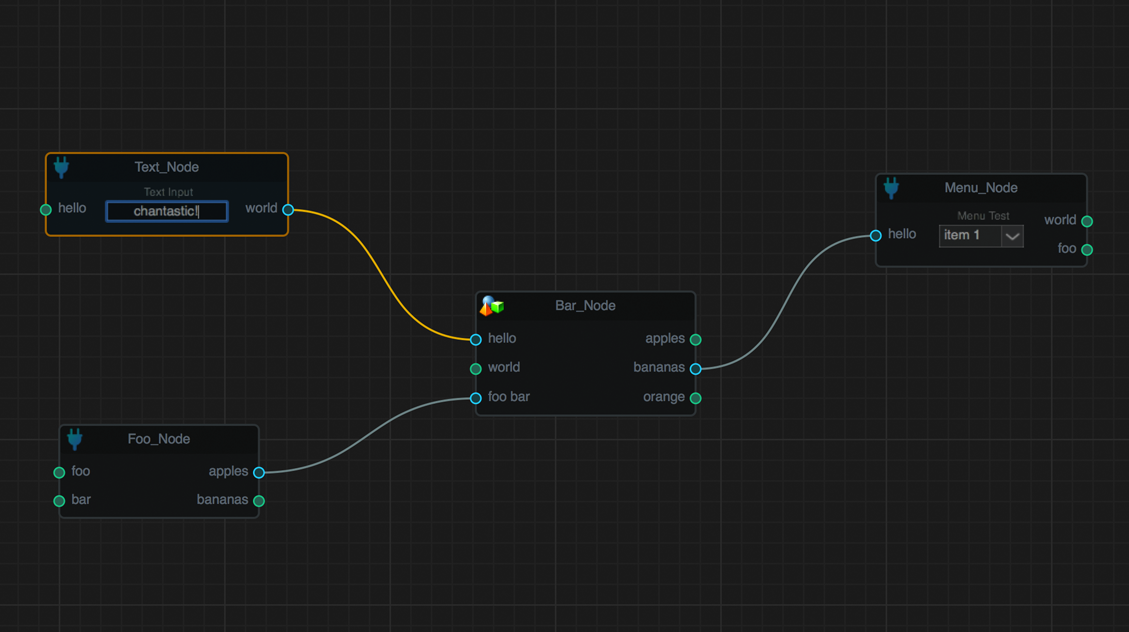
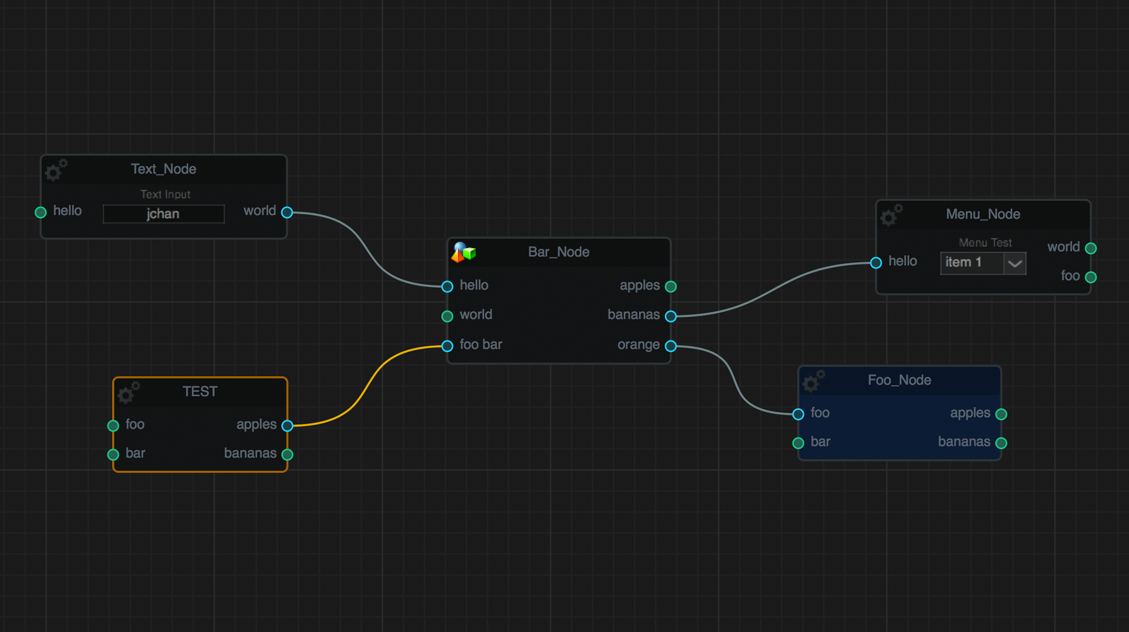
added connection loop validation.

diff --git a/BlueprintNodeGraph/src/viewer.py b/BlueprintNodeGraph/src/viewer.py
@@ -211,6 +211,24 @@ class NodeViewer(QtGui.QGraphicsView):
             self._connection_pipe = None
         self._start_port = None
 
+    def validate_connection_loop(self, start_port, end_port):
+        """
+        validate the connection doesn't loop itself.
+        """
+        start_node = start_port.node
+        check_nodes = [end_port.node]
+        io_types = {IN_PORT: 'outputs', OUT_PORT: 'inputs'}
+        while check_nodes:
+            check_node = check_nodes.pop(0)
+            for check_port in getattr(check_node, io_types[end_port.port_type]):
+                if check_port.connected_ports:
+                    for port in check_port.connected_ports:
+                        if port.node != start_node:
+                            check_nodes.append(port.node)
+                        else:
+                            return False
+        return True
+
     def validate_connection(self, start_port, end_port):
         """
         validate "end_port" connection check.
@@ -222,6 +240,8 @@ class NodeViewer(QtGui.QGraphicsView):
         if end_port.port_type == start_port.port_type:
             return False
         if end_port.node == start_port.node:
+            return False
+        if not self.validate_connection_loop(start_port, end_port):
             return False
         return True
 

diff --git a/BlueprintNodeGraph/src/node.py b/BlueprintNodeGraph/src/node.py
@@ -59,12 +59,12 @@ class NodeItem(QtGui.QGraphicsItem):
         return QtCore.QRectF(0.0, 0.0, self._width, self._height)
 
     def paint(self, painter, option, widget):
+        r, g, b, a = self.color
+        bdr_r, bdr_g, bdr_b, bdr_a = self.border_color
         if self.isSelected():
-            r, g, b, a = NODE_SEL_COLOR
+            if NODE_SEL_COLOR:
+                r, g, b, a = NODE_SEL_COLOR
             bdr_r, bdr_g, bdr_b, bdr_a = NODE_SEL_BORDER_COLOR
-        else:
-            r, g, b, a = self.color
-            bdr_r, bdr_g, bdr_b, bdr_a = self.border_color
 
         bg_color = QtGui.QColor(r, g, b, a)
         border_color = QtGui.QColor(bdr_r, bdr_g, bdr_b, bdr_a)
@@ -557,7 +557,7 @@ class NodeItem(QtGui.QGraphicsItem):
             self._data_index[name] = index
             self.setData(index, data)
             return
-        raise ValueError('property "{}" already exists.'.format(name))
+        raise ValueError('data "{}" already exists.'.format(name))
 
     def delete(self):
         for port in self._input_items:

diff --git a/BlueprintNodeGraph/src/port.py b/BlueprintNodeGraph/src/port.py
@@ -40,7 +40,7 @@ class PortItem(QtGui.QGraphicsItem):
         self.multi_connection = False
 
     def __str__(self):
-        return 'Port({})'.format(self.name)
+        return 'PortItem({})'.format(self.name)
 
     def boundingRect(self):
         return QtCore.QRectF(0.0, 0.0, self._width, self._height)
@@ -96,11 +96,9 @@ class PortItem(QtGui.QGraphicsItem):
     @property
     def connected_ports(self):
         ports = []
+        port_types = {IN_PORT: 'output_port', OUT_PORT: 'input_port'}
         for pipe in self.connected_pipes:
-            if self.port_type == IN_PORT:
-                ports.append(pipe.output_port)
-            elif self.port_type == OUT_PORT:
-                ports.append(pipe.input_port)
+            ports.append(getattr(pipe, port_types[self.port_type]))
         return ports
 
     @property

diff --git a/example.py b/example.py
@@ -103,12 +103,15 @@ if __name__ == '__main__':
     text_node = graph.create_node(class_type='TextInputNode', name='Text Node')
     menu_node = graph.create_node(class_type='DropdownMenuNode', name='Menu Node')
 
-    # chage icon on "bar_node"
-    icon = os.path.join(os.path.dirname(os.path.abspath(__file__)), 'example_icon.png')
-    bar_node.set_icon(icon)
+    graph.create_node(class_type='TestNodeFoo', name='TEST')
 
-    # change the color on "bar_node"
-    bar_node.set_color(17, 52, 88)
+    # change the color on "foo_node"
+    foo_node.set_color(17, 52, 88)
+
+    # chage icon on "bar_node"
+    this_path = os.path.dirname(os.path.abspath(__file__))
+    icon = os.path.join(this_path, 'example_icon.png')
+    bar_node.set_icon(icon)
 
     # position nodes.
     foo_node.set_pos(-487.0, 141.0)

diff --git a/BlueprintNodeGraph/src/constants.py b/BlueprintNodeGraph/src/constants.py
@@ -21,7 +21,7 @@ PORT_ACTIVE_BORDER_COLOR = (45, 215, 255, 255)
 
 # NODE
 NODE_ICON_SIZE = 24
-NODE_SEL_COLOR = (77, 64, 18, 255)
+NODE_SEL_COLOR = None  # (77, 64, 18, 255)
 NODE_SEL_BORDER_COLOR = (173, 115, 5, 255)
 
 # NODE GRAPH VIEWER
